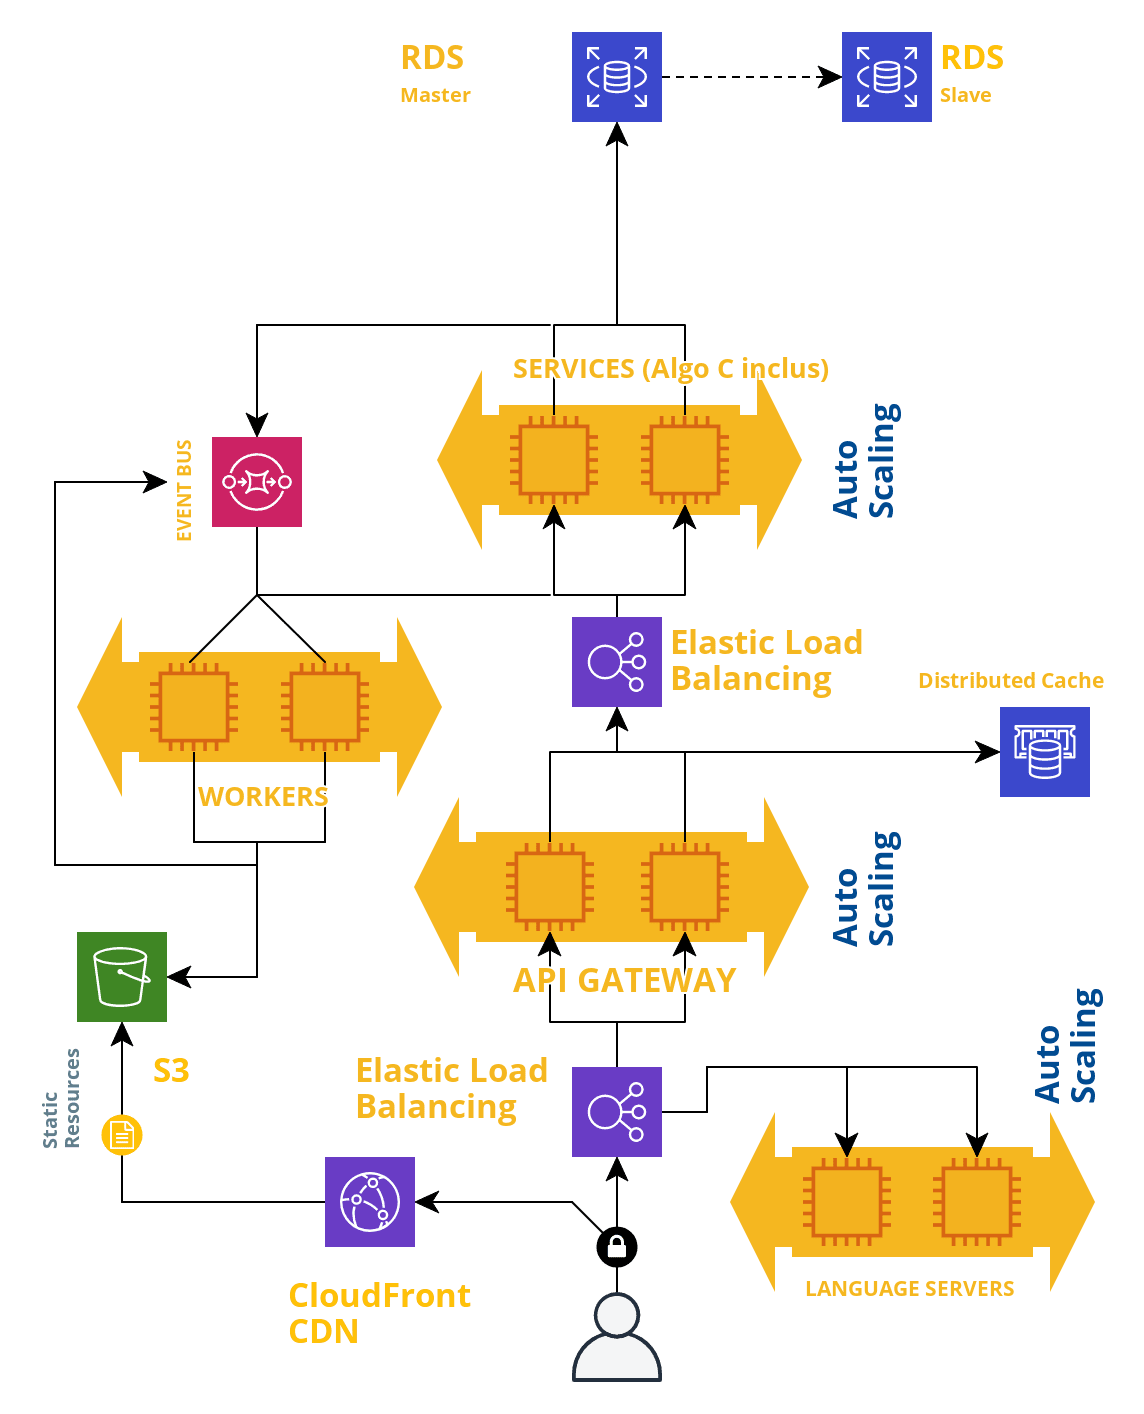
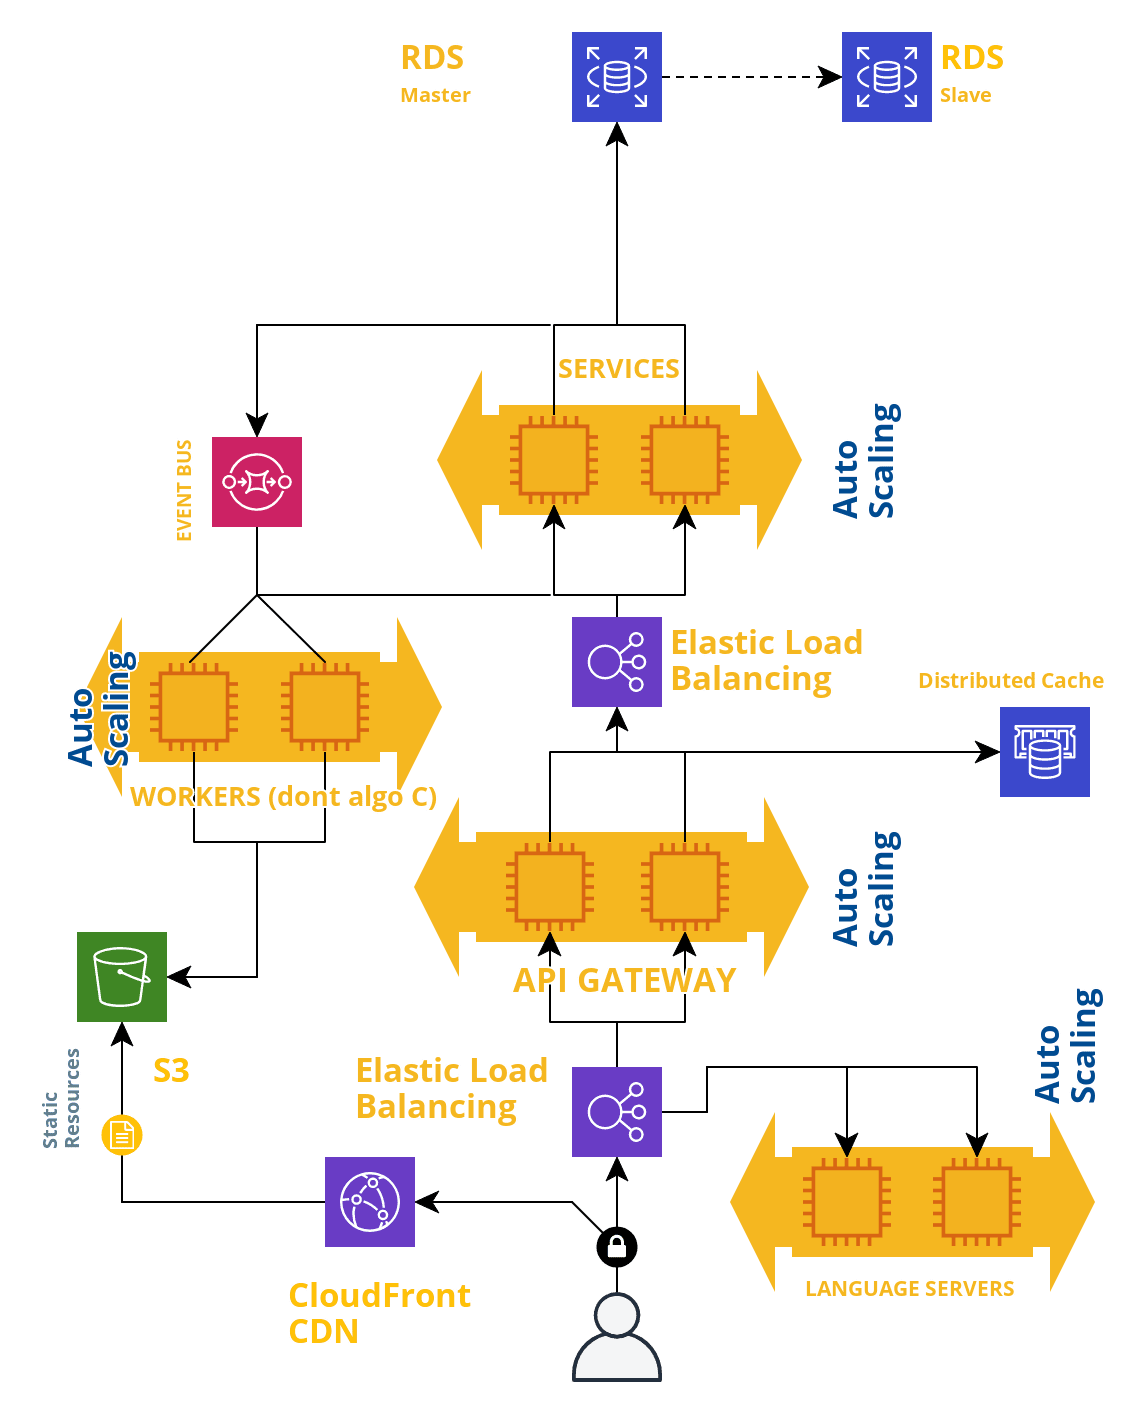
on y est presque

diff --git a/README.md b/README.md
@@ -7,24 +7,27 @@
 ## Choix techniques
 
 Je propose une architecture de type microservices déployée sur le cloud (chez AWS par exemple) comprenant:
+
 - une application web de type SPA s'exécutant dans un navigateur
 - une API Gateway en GraphQL recevant les requêtes de l'application et appelant les services adaptées en JSON-RPC
 - Du cache distribuée pour la gestion des sessions
 - Des services (authentification-service, session-service, notification-service, exercice-service...)
-    - répondant aux requêtes de l'API Gateway
-    - émettant des messages
-    - réagissant à des messages
+    - répondent aux requêtes de l'API Gateway
+    - émettent des messages
+    - réagissent à des messages
+    - ne peuvent pas communiquer directement entre eux
 - Des workers
     - réagissent aux messages
-    - exécutent le code fourni par les candidats et publient le résultat
+    - exécutent le code fourni par les candidats (dans un environnement dédié et sécurisé) et publient le résultat
     - exécutent l'algorithme en C de création des exercices techniques
+    - peuvent communiquer directement avec les services
 - Des [language server](https://langserver.org/) chargés de fournir les fonctionnalités d'un IDE (autocomplétion, correction syntaxique, ...) pour chaque langage supporté, et communiquant avec la partie IDE de l'application grâce au [Language Server Protocol](https://microsoft.github.io/language-server-protocol/) en JSON-RPC
 - Une base de données relationnelle pour stocker les données des services
 
 ### Infrastructure
 
-Pour répondre à la forte charge du lancement unique, je propose une architecture 
-_scalable_:
+Pour répondre à la forte charge du lancement unique, je propose une architecture _scalable_:
+
 - plusieurs instances d'un même service, worker, de l'API Gateway et des language servers dont le nombre sera adapté après des tests de charge
 - répartition de charge pour l'API Gateway, les language servers, les services
 - on privilégie les traitements asynchrone via l'utilisation d'une file de message et de workers
@@ -34,29 +37,55 @@ _scalable_:
 
 Choix Technique | Technologie | Alternative |
 --------------- | ------------| ------------|
-Répartition de charge | Elastic Load Balancing (AWS) | Nginx |
-Auto-scaling+Container | Elastic Container Service (AWS)| Kubernetes + Docker |
-File de messages | Simple Queue Service | RabbitMQ |
-Monitoring | ElasticSearch/Logstash/Kibana | Prometheus+Grafana |
-Base de données | Amazon Aurora | PostgresSQL |
-Content Delivery Network | Cloudfront | Cloudflare |
-Ressources Statiques | Simple Storage Service (AWS S3) | Serveur dédié + NGINX |
-Cache | Memcached | Redis | 
+Répartition de charge    | Elastic Load Balancing (AWS)   | Nginx |
+Auto-scaling+Container   | Elastic Container Service (AWS)| Kubernetes + Docker |
+File de messages         | Simple Queue Service           | RabbitMQ |
+Monitoring               | ElasticSearch/Logstash/Kibana  | Prometheus+Grafana |
+Base de données          | Amazon Aurora                  | PostgresSQL |
+Content Delivery Network | Cloudfront                     | Cloudflare |
+Hébergement Ressources Statiques | Simple Storage Service (AWS S3) | Serveur dédié + NGINX |
+Cache                    | Memcached (AWS Elasticache)    | Redis |
 
 ### Frontend
 
+Je favorise GraphQL par rapport à REST. Cela permet de combiner en une seule technologie caching, gestion de l'état de l'application, communication avec l'API en prévenant over-fetching et under-fetching, typage... le tout s'interfaçant naturellement avec React.  
+Le build de l'application sera stocké et hébergé sur S3 et servi via un CDN.
+
 Choix Technique | Technologie | Alternative |
 --------------- | ------------| ------------|
-Framework | Elastic Load Balancing (AWS) | Nginx |
+Modèle Applicatif      | Single Page App | Multi Page App |
+Langage                | Javascript      | Typescript     |
+Framework              | React           | VueJS          |
+Gestion d'état         | Apollo Client   | Redux          |
+Communication avec API | GraphQL         | REST           |
+Communication avec language servers | JSON-RPC | n/a |
 
 ### Backend
 
+Je propose d'adopter le Go comme langage de programmation, un langage moderne et performant à la communauté grandissante et qui a fait ses preuves en étant le langage de nombreuses technologies et produits "cloud-native" (kubernetes, docker, istio, traefik...).  
+On utilisera [gRPC](https://grpc.io) pour la communication entre API Gateway et services et entre workers et services, qui offre de meilleures performances comparé à des alternatives comme JSON-RPC.
+L'utilsation de cache distribuée permettra de gérer les données de session (cf. https://aws.amazon.com/fr/caching/session-management/ pour les différentes stratégies envisageables).  
+On s'appuiera sur une base de données relationnelle (MySQL ou PostgreSQL) aved réplication master-slave et partitionnement si nécessaire pour le stockage des données des services. Ces solutions me semblent suffisamment flexibles et performantes tout en offrant la rigueur d'un modèle relationnel. Je ne vois pas de justification (complexité du modèle de données, volumétrie...) pour utiliser une technologie NoSQL (Mongo, Cassandra, Neo4J, DynamoDB).  
+Le code écrit par les candidats sera stocké sur S3.
+
 Choix Technique | Technologie | Alternative |
 --------------- | ------------| ------------|
-Framework | Elastic Load Balancing (AWS) | Nginx |
+langage de programmation (service et workers) | Golang        | NodeJS |
+framework de développement                    | go-kit        | HapiJS |
+communication API-Gateway -> Services         | gRPC          | JSON-RPC |
+communication Workers -> Services             | gRPC          | JSON-RPC |
+Base de données                               | Amazon Aurora | PostgreSQL |
+Cache                                         | Memcached     | Redis |
 
 ## Diagramme d'architecture
 
 ![Architecture](./lls-architecture.png)
 
+### Diagramme de séquence - correction exercice
+
+### Diagramme de séquence - génération des exercices
+
 ## Conception de l'algorithme en C
+
+Je n'ai pas d'idée précise en terme de conception de l'algorithme.
+Plutôt que générer dynamiquement des exercices, j'aurai tendance à aller chercher en base de donnée un référentiel indiquant pour chaque contrainte quels exercices (préconçus) appliquer, en modulant en fonction de règles métiers (critères de difficulté, réduction du nombre d'exercices si nombreuses contraintes, etc).
